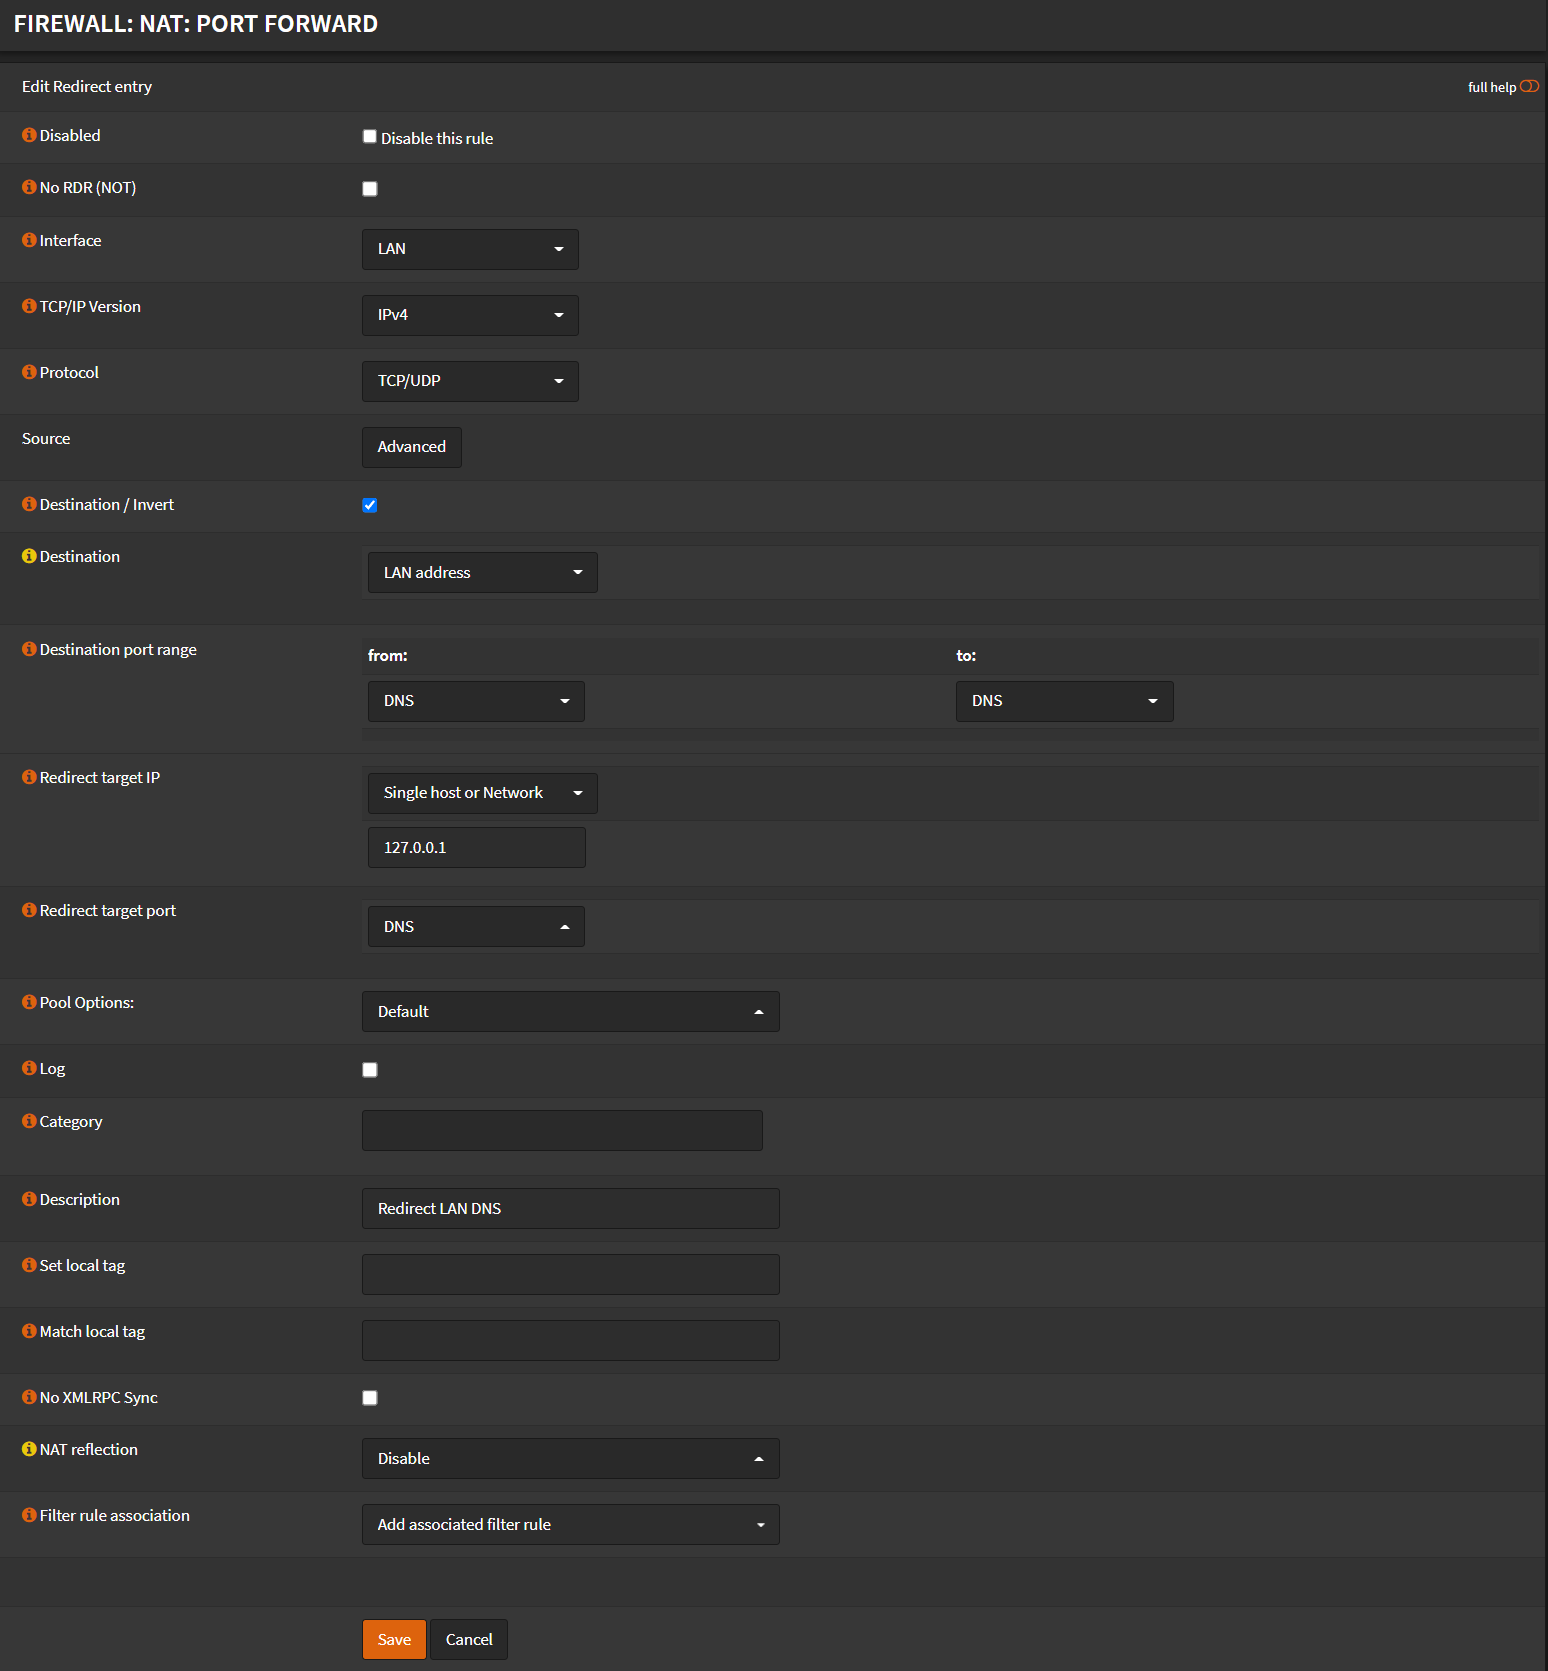
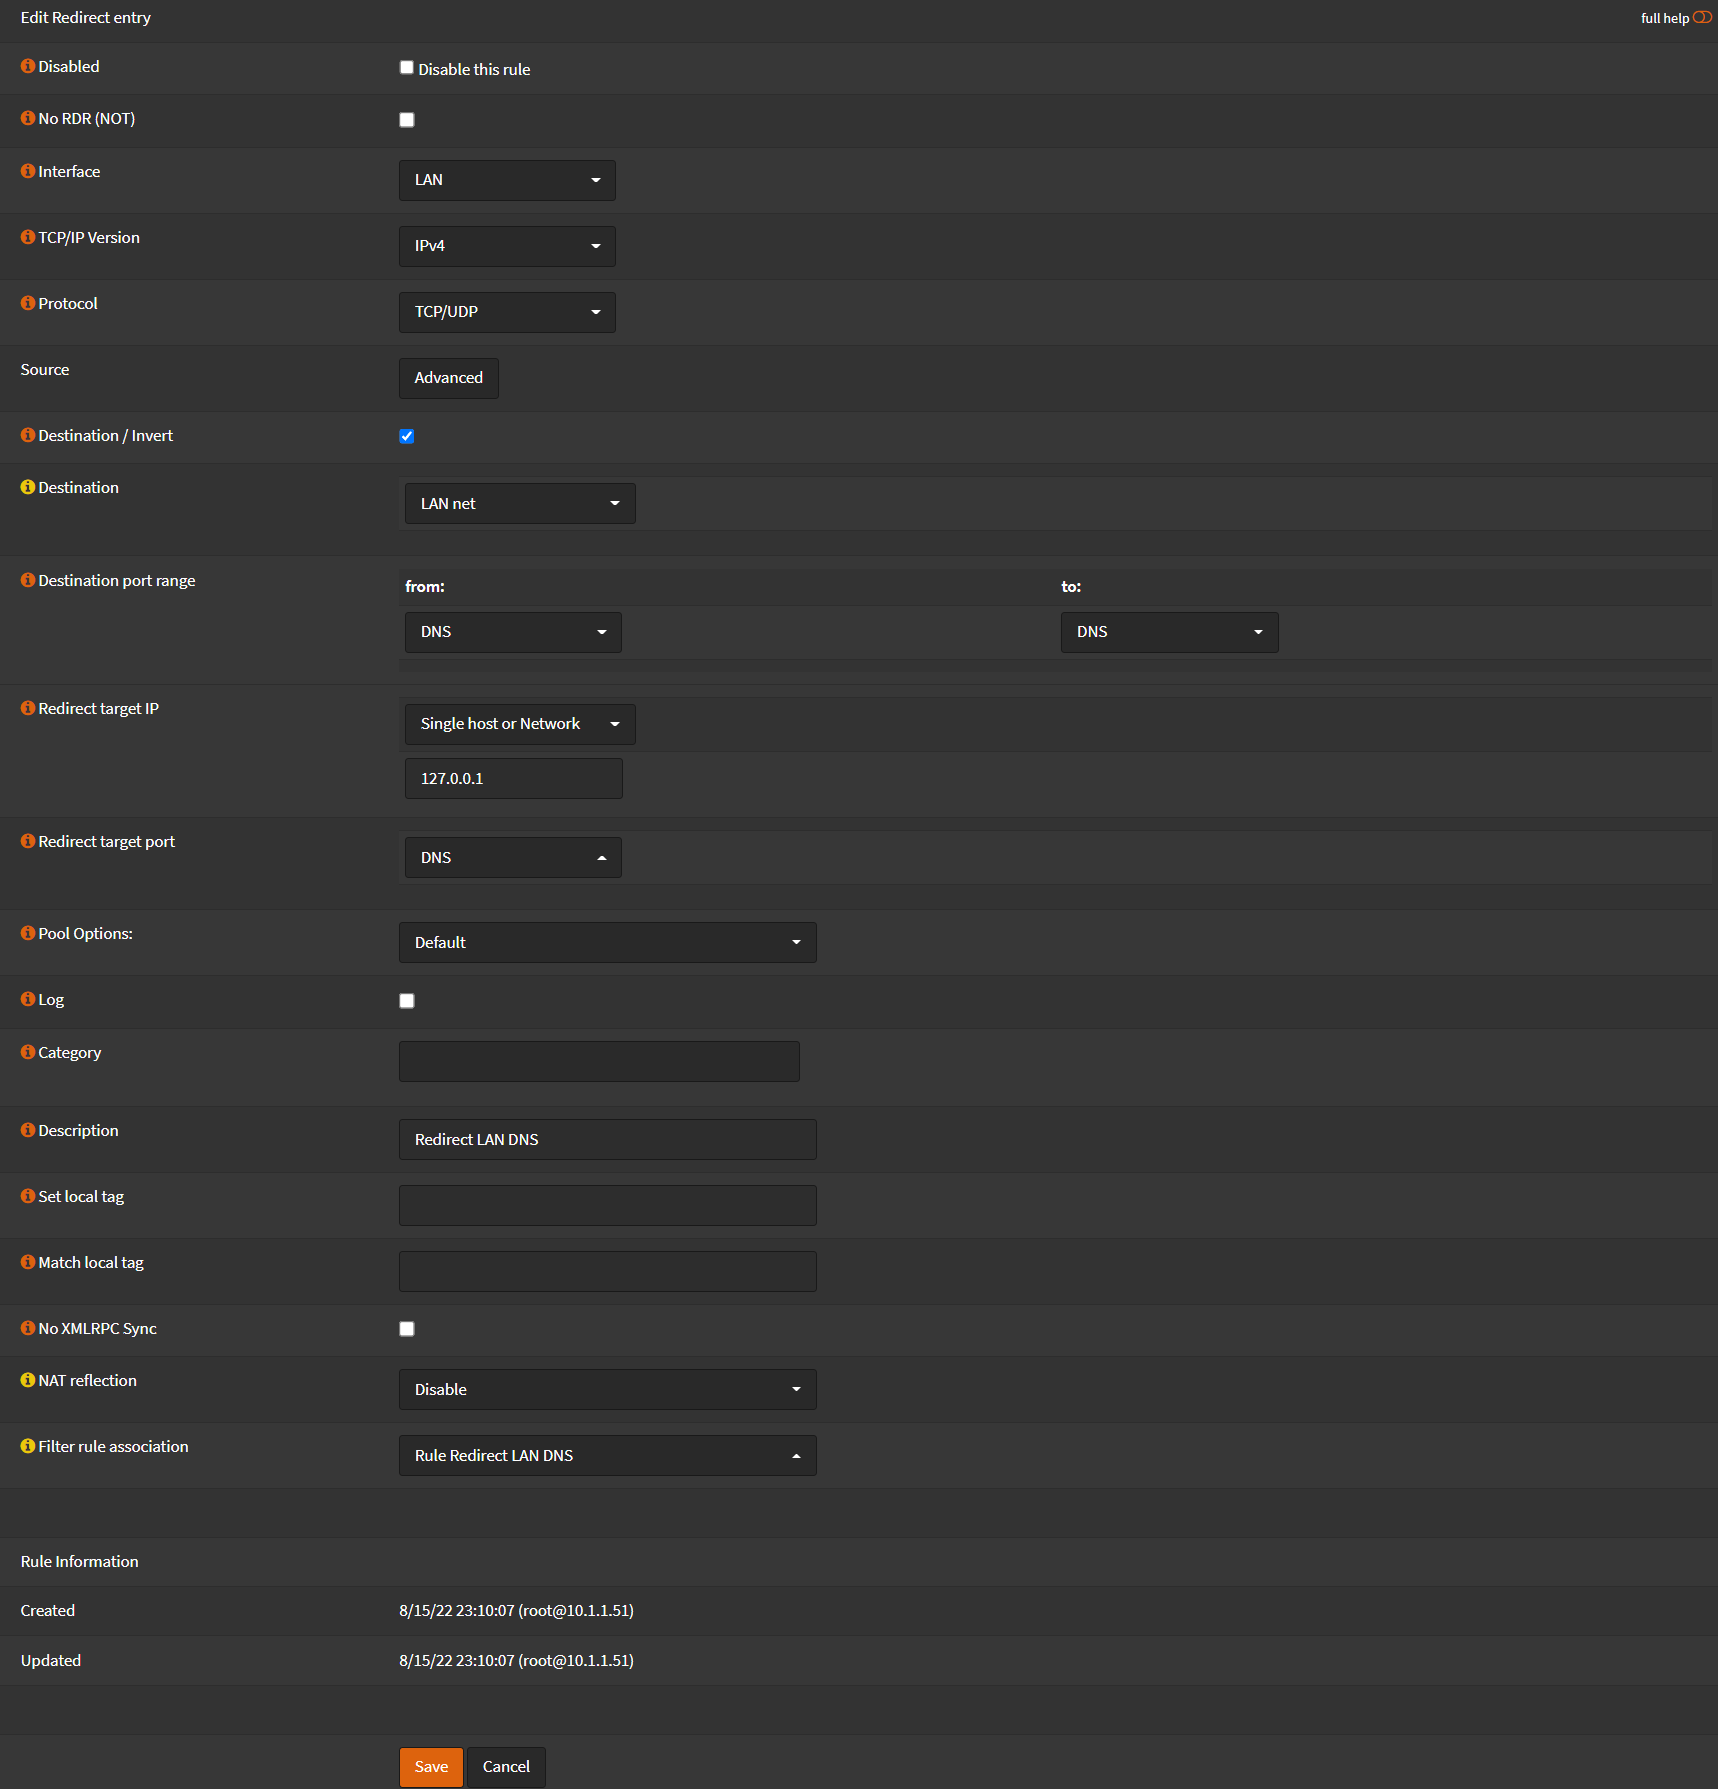
add interface group redirect dns

diff --git a/docs/networking/2-opnsense/9-firewall/1-redirect-dns.md b/docs/networking/2-opnsense/9-firewall/1-redirect-dns.md
@@ -3,8 +3,11 @@
 You can force all clients to use OPNSense as the DNS server,
 even if they manually set a different DNS on their machine.
 
+## Single Interface
+
 For every non-WAN interface you want to force this, do the following.
 On each interface the `Interface` and `Destination`, will be different.
+Or you can follow the guide bellow for `Firewall Groups`
 
 Navigate to `Firewall` -> `NAT` -> `Port Forward`
 
@@ -13,7 +16,7 @@ Navigate to `Firewall` -> `NAT` -> `Port Forward`
 - TCP/IP Version: `IPv4`
 - Protocol: `TCP/UDP`
 - Check `Destination / Invert`
-- Destination: `LAN Address`
+- Destination: `LAN net`
 - Destination port rage: `DNS`
 - Redirect target IP: `Single host or Network - 127.0.0.1`
 - Redirect target port: `DNS`
@@ -36,6 +39,43 @@ Navigate to `Firewall` -> `Rules` -> `LAN`
 Repeat for all non-WAN interfaces.
 
 - Click <kbd>Apply Changes</kbd>
+
+## Multiple Interfaces
+
+Navigate to `Firewall` -> `Groups`
+
+- Name: `RedirectDNS`
+- Description: `Redirect DNS`
+- Members: Select the interfaces you want to force OPNSense as DNS server.
+
+![redirect-groups](img/redirect-groups.png)
+
+- Click <kbd>Save</kbd>
+- Click <kbd>Apply Changes</kbd>
+
+Navigate to `Firewall` -> `NAT` -> `Port Forward`
+
+- Click <kbd>➕</kbd>
+- Interface: `RedirectDNS`
+- TCP/IP Version: `IPv4`
+- Protocol: `TCP/UDP`
+- Check `Destination / Invert`
+- Destination: `RedirectDNS net`
+- Destination port rage: `DNS`
+- Redirect target IP: `Single host or Network - 127.0.0.1`
+- Redirect target port: `DNS`
+- Description `Redirect DNS`
+- NAT Reflection `Disable`
+
+![redirect-groups-rule](img/redirect-groups-rule.png)
+
+- Click <kbd>Save</kbd>
+- Click <kbd>Apply Changes</kbd>
+
+Group firewall rules are higher in hierarchy than the specific interface rules.
+So in this case you don't need to move any rules first.
+
+## Notes
 
 :::note
 
